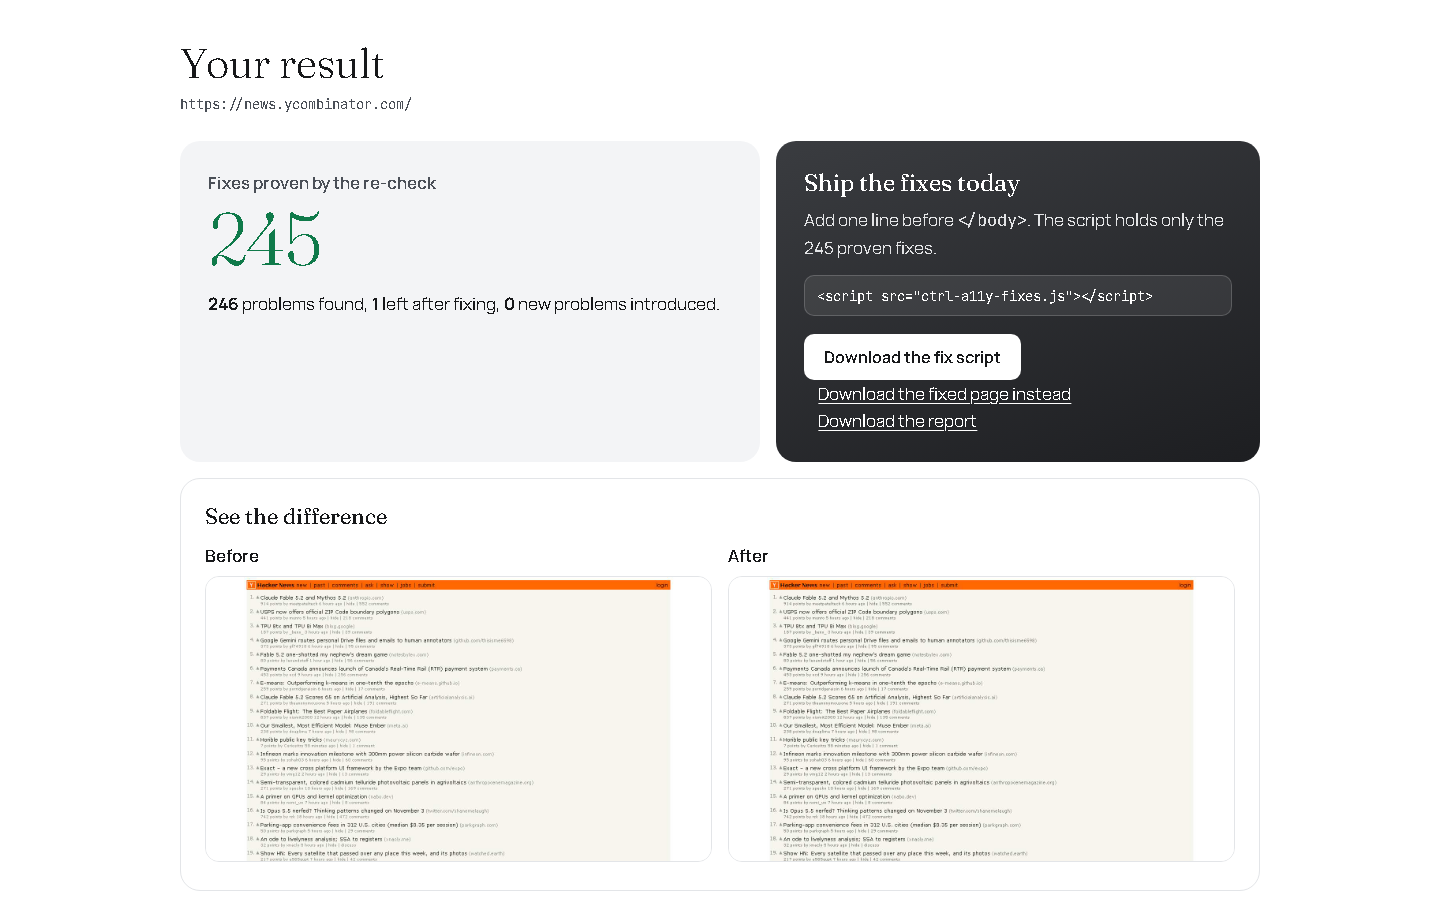
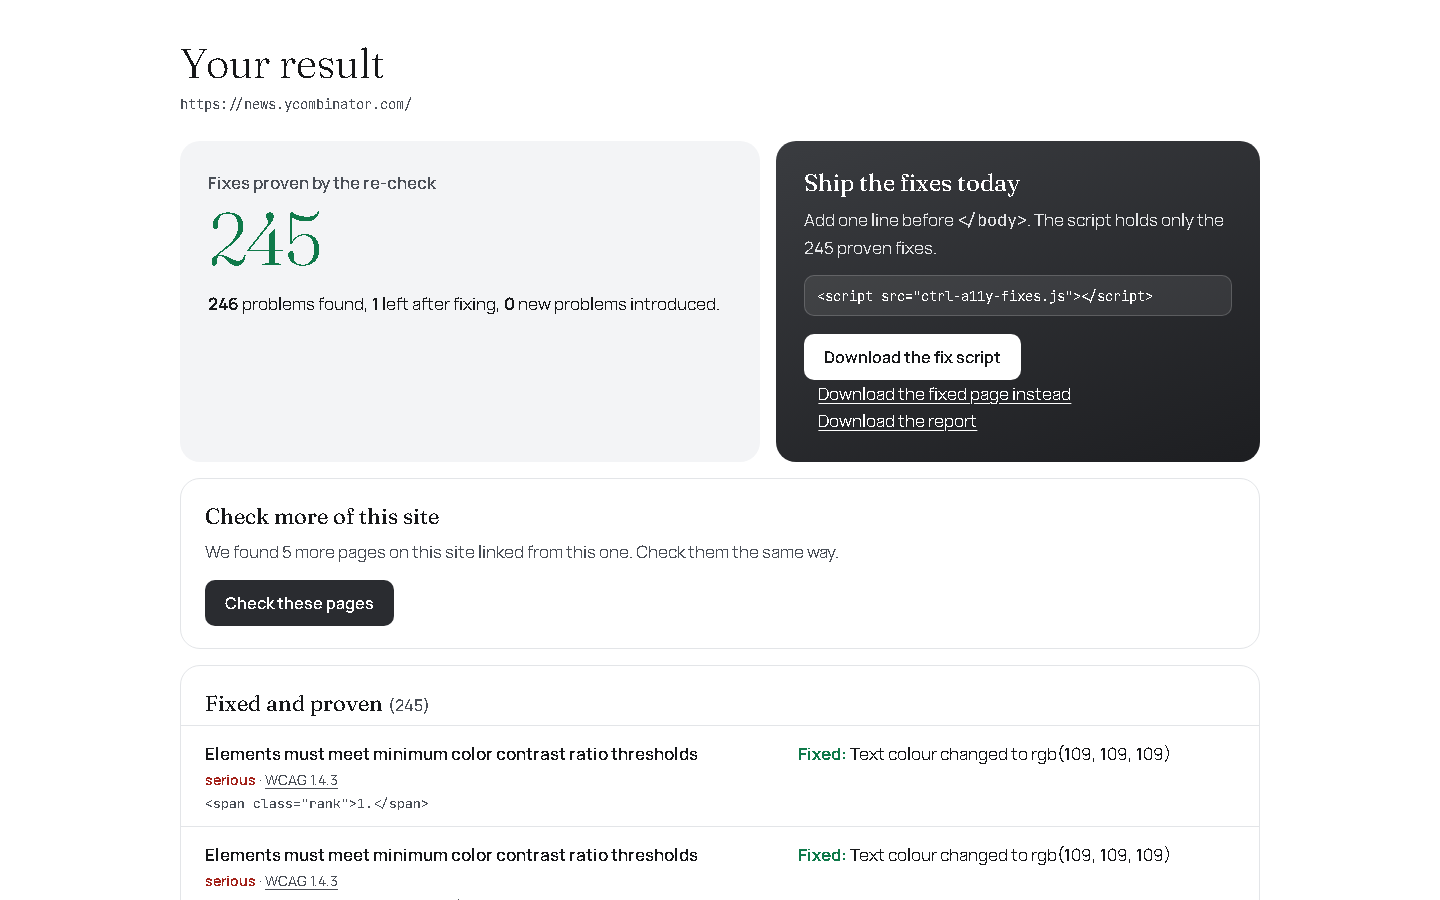
Video and screenshots: myScheme scene; keep live third-party thumbnails out of frame (#20)
* Video and screenshots: myScheme scene; keep live third-party thumbnails out of frame

* docs: demo video link

Changed region(s): [[0.125, 0.56, 0.5, 0.9956], [0.4688, 0.5911, 0.8438, 0.9644]]

diff --git a/video/record.py b/video/record.py
@@ -82,14 +82,18 @@ def app_fixes(page):
 def app_reader(page):
     run_app(page, DEMO); glide(page, "#rb", 10)
 
+def hide_thumbnails(page):
+    # Live third-party pages can show anything in their headlines; keep their thumbnails out of the video.
+    page.evaluate("() => document.getElementById('sb').closest('.panel').style.display = 'none'")
+
 def app_real(page):
-    run_app(page, REAL); glide(page, "#h-res", 10)
+    run_app(page, REAL); hide_thumbnails(page); glide(page, "#h-res", 10)
 
 def app_india(page):
     run_app(page, INDIA); glide(page, "#h-res", 10)
 
 def app_site(page):
-    run_app(page, REAL); glide(page, "#site-wrap", 10); page.wait_for_timeout(600)
+    run_app(page, REAL); hide_thumbnails(page); glide(page, "#site-wrap", 10); page.wait_for_timeout(600)
     page.click("#site-btn"); glide(page, "#site-wrap", 10)
 
 def app_ship(page):

diff --git a/docs/shots.py b/docs/shots.py
@@ -53,6 +53,8 @@ if __name__ == "__main__":
             at(page, "#sb", "06-see-the-difference.png", 160)
             at(page, ".ship", "07-ship-the-fixes.png", 160)
             check(page, REAL)
+            # Live third-party headlines can show anything; keep their thumbnails out of the screenshot.
+            page.evaluate("() => document.getElementById('sb').closest('.panel').style.display = 'none'")
             at(page, "#h-res", "08-real-site-hacker-news.png")
     finally:
         server.terminate()

diff --git a/docs/DEVPOST.md b/docs/DEVPOST.md
@@ -107,6 +107,6 @@ generated by code from the real app.
 
 ## Try it out
 - Repo: https://github.com/thegoodengineers/ctrl-a11y
-- Demo video: [YouTube link, under 3 minutes; draft is generated by `video/`]
+- Demo video: https://youtu.be/WMV3hIreQyw (2 min 5 s; generated from the real app by `video/`)
 - Live demo: [Hugging Face Space link after `python deploy_hf.py`]
 - Screenshots: `docs/screenshots/` (retake with `python docs/shots.py`)

diff --git a/README.md b/README.md
@@ -1,5 +1,7 @@
 # Ctrl+A11y
 
+**Demo video (2 min):** https://youtu.be/WMV3hIreQyw
+
 [![tests](https://github.com/thegoodengineers/ctrl-a11y/actions/workflows/test.yml/badge.svg)](https://github.com/thegoodengineers/ctrl-a11y/actions/workflows/test.yml)
 
 **Paste a URL, get an accessible site.** An agent finds what blocks blind, low-vision and keyboard
